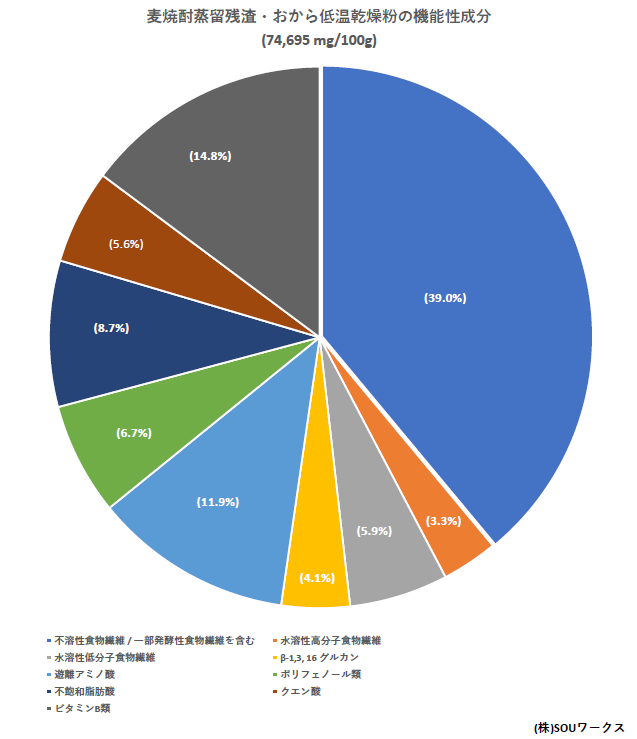
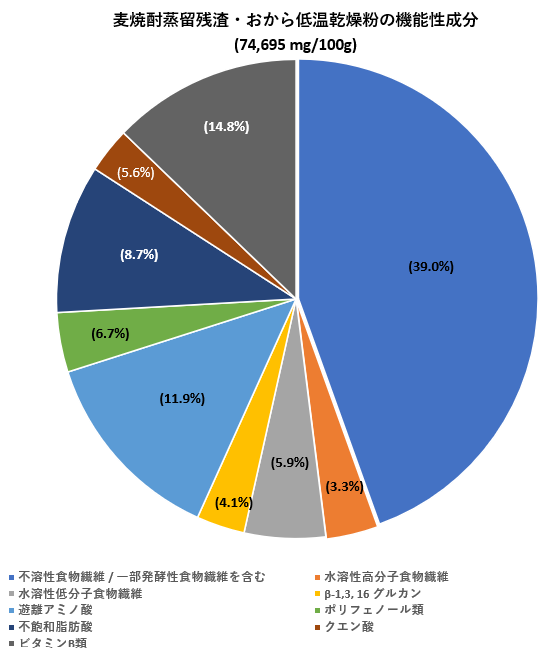
Update analysis charts and add image lightbox on 事業内容 page
- Replace 一般栄養成分/機能性成分/遊離アミノ酸の内訳 chart images with
  updated versions
- Clicking any .graph-card image (analysis charts + ヒラメ養殖試験結果)
  now opens a full-size popup; closes via the × button, clicking the
  overlay, or Escape

Claude-Session: https://claude.ai/code/session_01FYSaZGQbku8wFpZqu3Tug8

diff --git a/assets/js/main.js b/assets/js/main.js
@@ -17,3 +17,43 @@
   updateHeaderShadow();
   window.addEventListener("scroll", updateHeaderShadow, { passive: true });
 })();
+
+(function () {
+  "use strict";
+
+  // Click-to-enlarge popup for the analysis/graph images (事業内容 page).
+  var lightbox = document.getElementById("lightbox");
+  if (!lightbox) return;
+
+  var lightboxImg = lightbox.querySelector("img");
+  var closeBtn = lightbox.querySelector(".lightbox-close");
+  var triggers = document.querySelectorAll(".graph-card img");
+  if (!triggers.length) return;
+
+  function openLightbox(src, alt) {
+    lightboxImg.src = src;
+    lightboxImg.alt = alt || "";
+    lightbox.classList.add("is-active");
+    document.body.style.overflow = "hidden";
+  }
+
+  function closeLightbox() {
+    lightbox.classList.remove("is-active");
+    lightboxImg.src = "";
+    document.body.style.overflow = "";
+  }
+
+  triggers.forEach(function (img) {
+    img.addEventListener("click", function () {
+      openLightbox(img.currentSrc || img.src, img.alt);
+    });
+  });
+
+  closeBtn.addEventListener("click", closeLightbox);
+  lightbox.addEventListener("click", function (e) {
+    if (e.target === lightbox) closeLightbox();
+  });
+  document.addEventListener("keydown", function (e) {
+    if (e.key === "Escape") closeLightbox();
+  });
+})();

diff --git a/assets/css/style.css b/assets/css/style.css
@@ -88,7 +88,7 @@ main > .page.active { display: block; animation: fadeIn .45s ease; }
 .component-item::before { content: ""; position: absolute; left: 10px; top: 24px; width: 6px; height: 6px; border-radius: 50%; background: var(--gold); }
 .graph-grid { display: grid; grid-template-columns: repeat(2, 1fr); gap: 28px; }
 .graph-card { background: #fff; border: 1px solid var(--line); overflow: hidden; box-shadow: 0 10px 24px rgba(11,29,58,.05); }
-.graph-card img { aspect-ratio: 4 / 3; object-fit: contain; width: 100%; background: #fff; }
+.graph-card img { aspect-ratio: 4 / 3; object-fit: contain; width: 100%; background: #fff; cursor: zoom-in; }
 .graph-caption { padding: 16px 18px 18px; border-top: 1px solid var(--line); }
 .graph-caption strong { display: block; color: var(--navy-deep); font-size: 14px; margin-bottom: 6px; letter-spacing: .05em; }
 .graph-caption span { color: var(--muted); font-size: 12px; line-height: 1.8; white-space: pre-line; }
@@ -109,6 +109,19 @@ footer::before { content: ""; position: absolute; top: 0; left: 0; right: 0; hei
 footer p { font-size: 13px; opacity: .86; letter-spacing: .06em; line-height: 2; }
 .footer-line { width: 42px; height: 1px; background: var(--gold); margin: 26px auto; }
 .copy { font-family: "Cormorant Garamond", serif; font-size: 11px; letter-spacing: .3em; opacity: .55; }
+
+/* ==========================================================================
+   Lightbox (click-to-enlarge popup for .graph-card images)
+   ========================================================================== */
+.lightbox { position: fixed; inset: 0; z-index: 1000; display: none; align-items: center; justify-content: center; padding: 40px; background: rgba(11, 29, 58, 0.92); cursor: zoom-out; }
+.lightbox.is-active { display: flex; }
+.lightbox img { max-width: 100%; max-height: 100%; background: #fff; box-shadow: 0 24px 60px rgba(0, 0, 0, .4); cursor: default; }
+.lightbox-close { position: absolute; top: 24px; right: 28px; width: 42px; height: 42px; border: 1px solid rgba(255, 255, 255, .5); border-radius: 50%; background: transparent; color: var(--paper); font-size: 22px; line-height: 1; display: flex; align-items: center; justify-content: center; cursor: pointer; transition: background .2s ease; }
+.lightbox-close:hover { background: rgba(255, 255, 255, .14); }
+@media (max-width: 600px) {
+  .lightbox { padding: 20px; }
+  .lightbox-close { top: 14px; right: 14px; width: 36px; height: 36px; font-size: 18px; }
+}
 
 /* ==========================================================================
    Responsive: tablet (unchanged from the original CodePen mockup)

diff --git a/footer.php b/footer.php
@@ -9,6 +9,11 @@
   <div class="copy">© SOU WORKS CO., LTD. ALL RIGHTS RESERVED.</div>
 </footer>
 
+<div class="lightbox" id="lightbox">
+  <button type="button" class="lightbox-close" aria-label="閉じる">&times;</button>
+  <img src="" alt="">
+</div>
+
 <?php wp_footer(); ?>
 </body>
 </html>